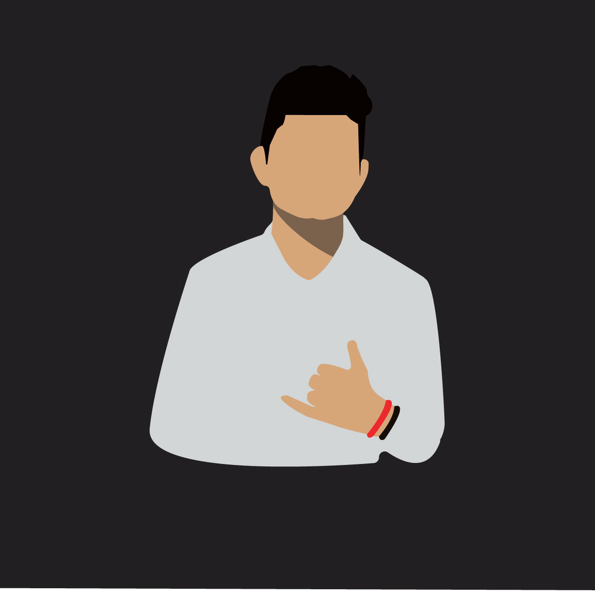
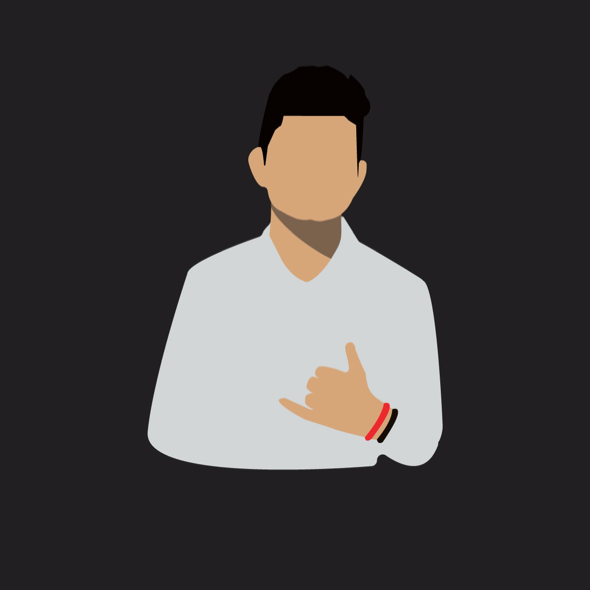
image white bottom remove

diff --git a/css/style.css b/css/style.css
@@ -201,10 +201,11 @@ h1, h2, h3, h4, h5, h6, figure {
 #fh5co-header .display-tc .profile-thumb,
 .fh5co-cover .display-tc .profile-thumb {
   background-size: cover !important;
+  background-size: 100% 100% !important;
   background-position: center center;
   background-repeat: no-repeat;
   position: relative;
-  height: 197px;
+  height: 200px;
   width: 200px;
   margin: 0 auto;
   margin-bottom: 30px;
@@ -212,6 +213,8 @@ h1, h2, h3, h4, h5, h6, figure {
   -moz-border-radius: 50%;
   -ms-border-radius: 50%;
   border-radius: 50%;
+  color: #211F21;
+  background-color: #211F21;
 }
 #fh5co-header .display-tc .fh5co-social-icons li a,
 .fh5co-cover .display-tc .fh5co-social-icons li a {
